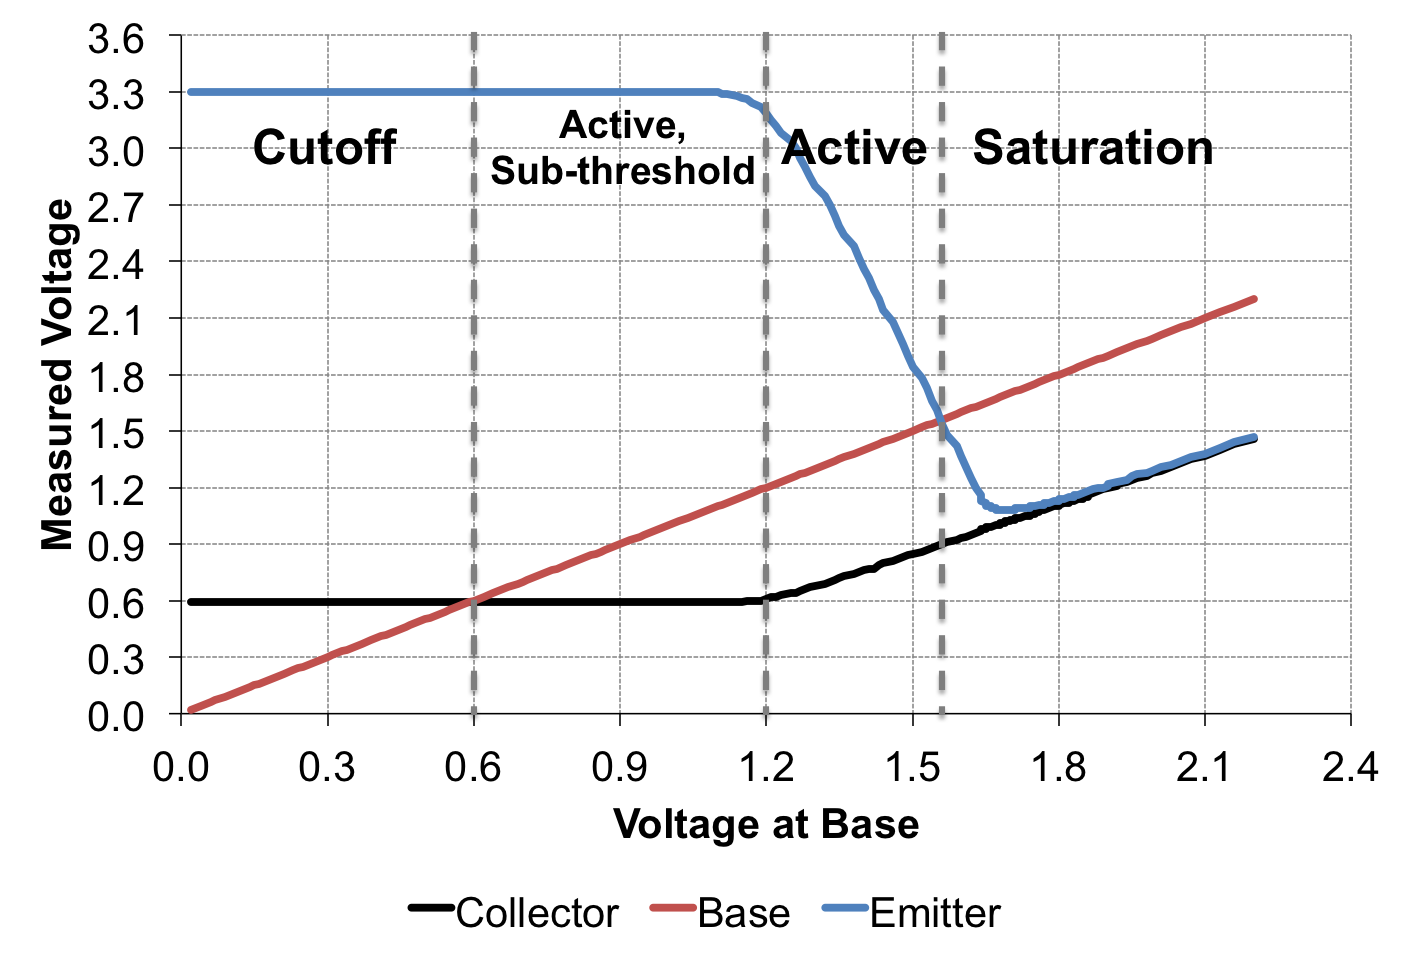
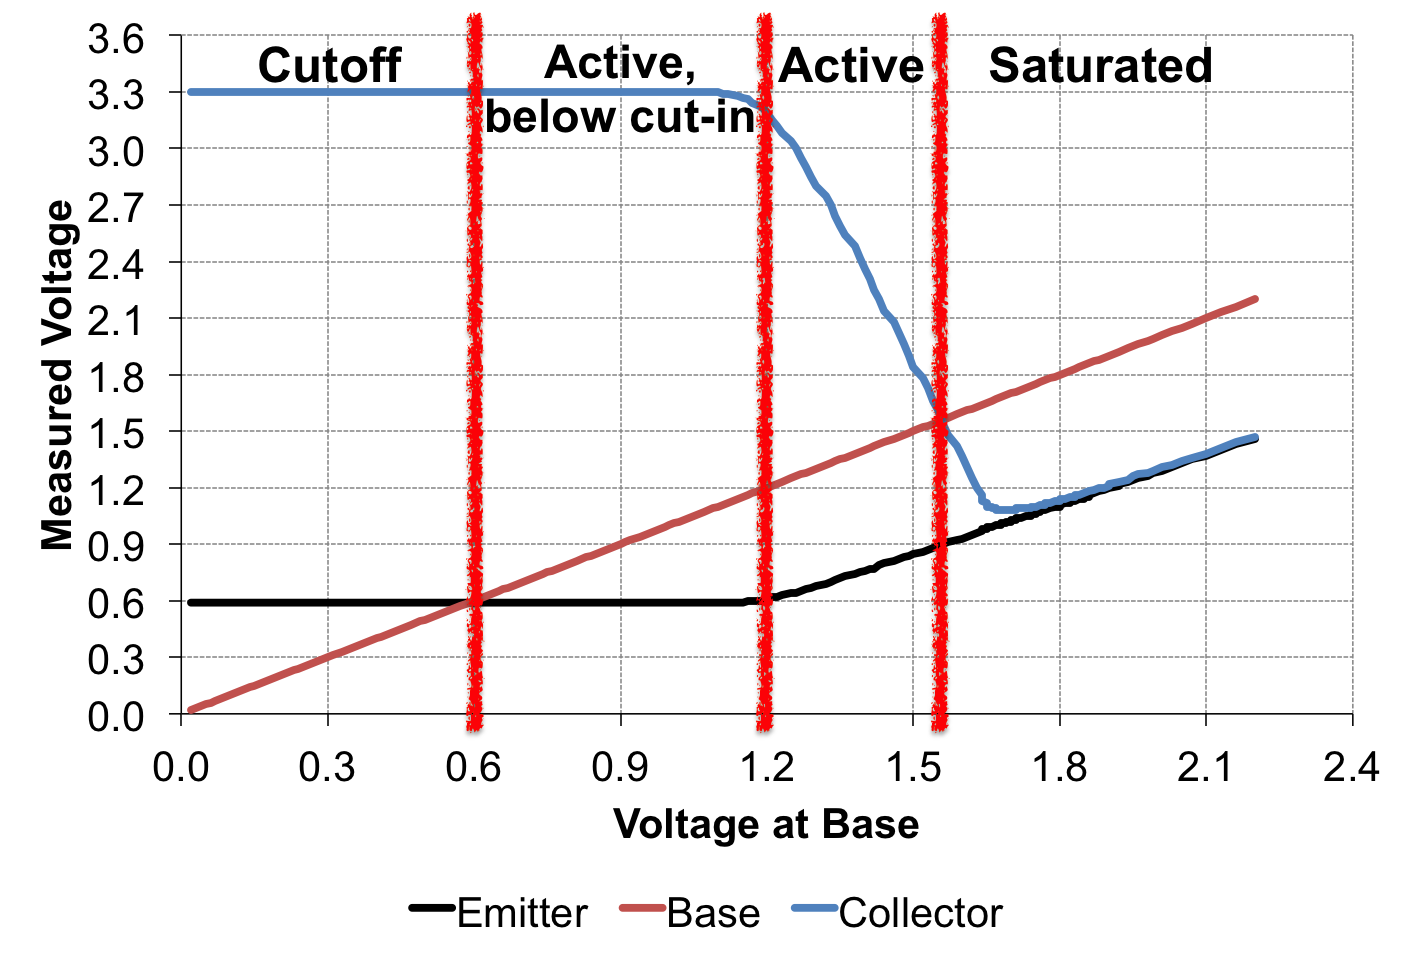
added PNP transistor characterization

diff --git a/content/electronics/bipolar-junction-transistors.md b/content/electronics/bipolar-junction-transistors.md
@@ -46,7 +46,7 @@ But just having these relationships and a few equations weren't enough to help
 me understand how I could use these transistors in actual circuits.  So for the
 sake of developing my own understanding of transistors (specifically, bipolar
 junction transistors, or BJTs), I set up some tests to characterize the behavior
-of a [2N222 NPN transistor][].
+of a [2N2222 NPN transistor][].
 
 ## Building a test circuit
 
@@ -96,7 +96,7 @@ potentiometer to set V<sub>base</sub> to values ranging from 0 to 3.3 V in 0.1 V
 and measuring the other voltages gives us the following:
 
 <div class="shortcode">
-{{< figure src="2n2222-voltage-plot.png" link="2n2222-voltage-plot.png" alt="Voltage at the collector, base, and emitter as base is changed"  class="width-100" >}}
+{{< figure src="2n2222-voltage-plot.png" link="2n2222-voltage-plot.png" alt="Voltage at the collector, base, and emitter as base is changed" >}}
 </div>
 
 There is a lot of interesting data in this diagram, so let's look at a few
@@ -104,7 +104,7 @@ things it tells us about NPN transistors.
 
 ### 1. Identifying the different transistor modes
 
-As discussed above, transistors can operate in one of three modes:
+As discussed above, NPN transistors can operate in one of three modes:
 
 Mode       | Criteria | Behavior
 -----------|----------|---------
@@ -115,7 +115,7 @@ Cutoff     | V<sub>base</sub> &lt; V<sub>collector</sub><br>V<sub>base</sub> &lt
 On our plot of measured data, these modes are laid out as shown:
 
 <div class="shortcode">
-{{< figure src="2n2222-voltage-plot-modes.png" link="2n2222-voltage-plot-modes.png" alt="Vbase, Vcollector, and Vemitter in different transistor modes"  class="width-100" >}}
+{{< figure src="2n2222-voltage-plot-modes.png" link="2n2222-voltage-plot-modes.png" alt="Vbase, Vcollector, and Vemitter in different transistor modes" class="width-100" >}}
 </div>
 
 And indeed, we can see that
@@ -146,7 +146,7 @@ transistor is still actually not passing any current.  In our measured data,
 this is happening between V<sub>base</sub> values of 0.6 V and 1.2 V:
 
 <div class="shortcode">
-{{< figure src="2n2222-voltage-plot-threshold.png" link="2n2222-voltage-plot-threshold.png" alt="Treshold voltage in the transistor active mode region"  class="width-100" >}}
+{{< figure src="2n2222-voltage-plot-threshold.png" link="2n2222-voltage-plot-threshold.png" alt="Treshold voltage in the transistor active mode region" >}}
 </div>
 
 This minimum voltage to get any conductivity is called the _cut-in voltage_.
@@ -165,14 +165,85 @@ in a 3.3 V circuit might not always work as desired--you've only got 0.7 V to
 play with ahead of the collector after the 2.0 V drop from the LED and this
 0.6 V cut-in voltage.
 
+## Characterizing PNP transistors
+
+PNP transistors can operate in one of three modes:
+
+Mode       | Criteria | Behavior
+-----------|----------|---------
+Saturation | V<sub>base</sub> &lt; V<sub>collector</sub><br>V<sub>base</sub> &lt; V<sub>emitter</sub> | Behaves like closed switch
+Active     | V<sub>emitter</sub> &gt; V<sub>base</sub> &gt; V<sub>collector</sub> | V<sub>emitter</sub> proportional to V<sub>base</sub>
+Cutoff     | V<sub>base</sub> &gt; V<sub>collector</sub><br>V<sub>base</sub> &gt; V<sub>emitter</sub> | Behaves like open switch
+
+which, when compared to the table for NPN transistors, represents almost the
+entire opposite of NPN modes.  And if we plug a PNP resistor (like a 2N2907)
+into our test circuit and run the experiment, we get very strange results:
+
+<div class="shortcode">
+{{< figure src="2n2907-voltage-plot-naive.png" link="2n2907-voltage-plot-naive.png" alt="Voltage at the collector, base, and emitter as base is changed on a PNP transistor" >}}
+</div>
+
+According to the above table, just about the entire range we tested winds up
+being in a fourth mode which is called **reverse-active mode**, where
+V<sub>emitter</sub> &lt; V<sub>base</sub> &lt; V<sub>collector</sub>.  This
+happens because the _current flows from the emitter to the collector_ in PNP
+transistors.
+
+So, there are a few changes we should make to our test circuit to see all three
+transistor modes for this 2N2907:
+
+1. We have to replace the NPN 2N2222 with a PNP 2N2907, and _reverse the
+   polarity_ so that the emitter is at a higher voltage than the collector.
+2. `R1` should be connected _after_ `R2` now.  In our NPN test circuit, `R1`'s
+   job was to pull up the voltage on the low side of the transistor so that we
+   could observe cutoff mode where V<sub>base</sub> was lower than
+   V<sub>emitter</sub>.  In this PNP test circuit, cutoff mode will be observed
+   when V<sub>base</sub> is higher than V<sub>emitter</sub>, so moving `R1` will
+   pull down V<sub>emitter</sub> from our +3.3 V source.
+3. `R2` should be replaced with a lower resistance so that we can observe
+   saturation mode.  In the NPN test circuit, `R2`'s job was to pull
+   V<sub>collector</sub> down below V<sub>base</sub>, where V<sub>base</sub>
+   was governed (in part) by `R3`.  Saturation mode in this PNP case requires
+   that V<sub>emitter</sub> be _higher_ than V<sub>base</sub> (again, governed
+   in part by `R3`), so `R2` should not be larger than `R3`.
+
+Applying these three changes results in a circuit that looks like this:
+
+<div class="shortcode">
+{{< figure src="2n2907-experiment-circuit-taps.png" link="2n2907-experiment-circuit-taps.png" alt="Transistor and potentiometer test circuit diagram for PNP transistor" >}}
+</div>
+
+Note that because the emitter and collector are physically reversed, we must
+take care not to forget which transistor lead we are measuring with our
+multimeter!
+
+This PNP transistor test circuit demonstrates the following relationships
+between V<sub>collector</sub>, V<sub>base</sub>, and V<sub>emitter</sub>:
+
+<div class="shortcode">
+{{< figure src="2n2907-voltage-plot.png" link="2n2907-voltage-plot.png" alt="Voltage at the collector, base, and emitter as base is changed on a PNP transistor" >}}
+</div>
+
+At a glance, this may look quite different from the NPN transistor voltage plot
+from the previous section.  However, if you look at it upside down, you may be
+able to see how similar PNP and NPN transistors are.  All of the same modes
+are present, as is the cut-in voltage:
+
+<div class="shortcode">
+{{< figure src="2n2907-voltage-plot-modes.png" link="2n2907-voltage-plot-modes.png" alt="Voltage at the collector, base, and emitter as base is changed on a PNP transistor" class="width-100" >}}
+</div>
+
+The only difference, as any textbook will tell you, is that PNP transistors
+are "on" when the base voltage is low.
+
 ## Next steps
 
-This experiment was elucidating but very tedious to carry out with a mechanical
-potentiometer and a handheld multimeter.  To perform this sort of
-characterization on more elaborate circuits such as logic gates, we really need
-a more efficient way of varying voltage and taking measurements.  To this end,
-I've written on a page on [how to use a digital potentiometer (digipot) and an
-analog-digital converter (ADC) along with Raspberry Pi to automate these
+These experiments are elucidating, but they are also very tedious to carry out
+with a mechanical potentiometer and a handheld multimeter.  To perform this
+sort of characterization on more elaborate circuits such as logic gates, we
+need a more efficient way of varying voltage and taking measurements.  To this
+end, I've written on a page on [how to use a digital potentiometer (digipot)
+and an analog-digital converter (ADC) along with Raspberry Pi to automate these
 experiments][my digipot page].
 
 [mk152 blog]: https://glennklockwood.blogspot.com/2016/10/learning-electronics-with-roulette.html
